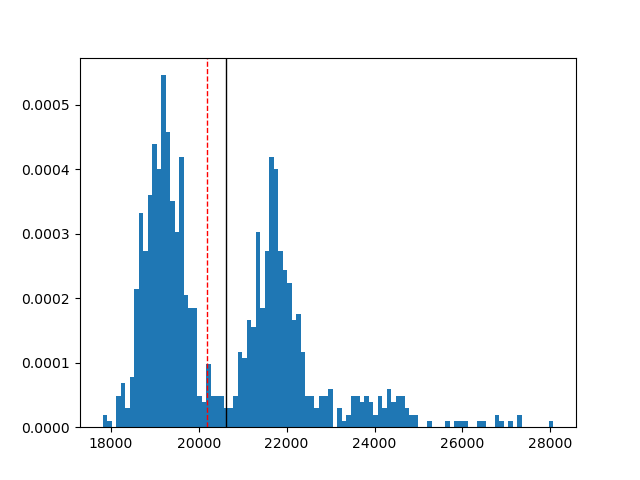
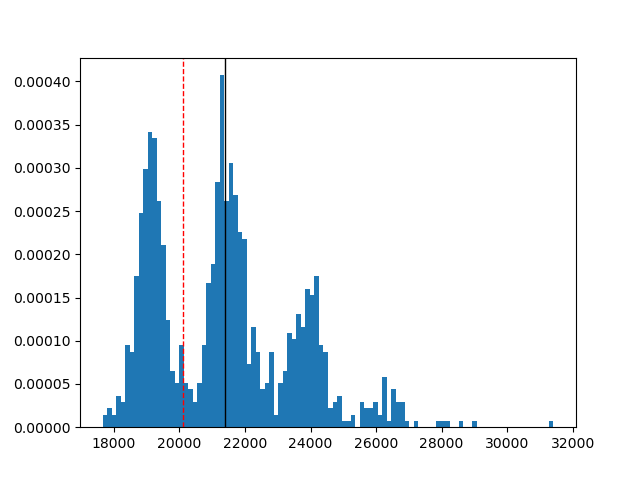
Misc Clean up - final upload by me hopefully
Made demand analysis dp consistent
Re-ran sim for the slack histograms
removed deprecated simulation.py

diff --git a/main.py b/main.py
@@ -169,7 +169,7 @@ def main(n,day, isBoot = 0, slack = 0, isMerge = 0):
         if (i % 200) == 0:
             print("%3.0f percent done" % (i/n*100))
  
-    if slack >= 3:
+    if slack >= 5:
         diffCosts = [(CompCosts[i] - RouteCosts[i]) for i in range(n)]
         RouteCosts = [sum(diffCosts[i*20:i*20+20]) for i in range(n//20)]
         print(max(diffCosts))
@@ -206,7 +206,9 @@ def main(n,day, isBoot = 0, slack = 0, isMerge = 0):
 
 
 if __name__ == "__main__":
-    main(1000,1,1,isMerge=0, slack=1) # 13 trucks will give 1 slack
+    for s in range(3,5):
+        main(1000,1,1,isMerge=0, slack=s) # 13 trucks will give 1 slack
+
     main(1000,2,1,isMerge=0, slack=1)
 
 
